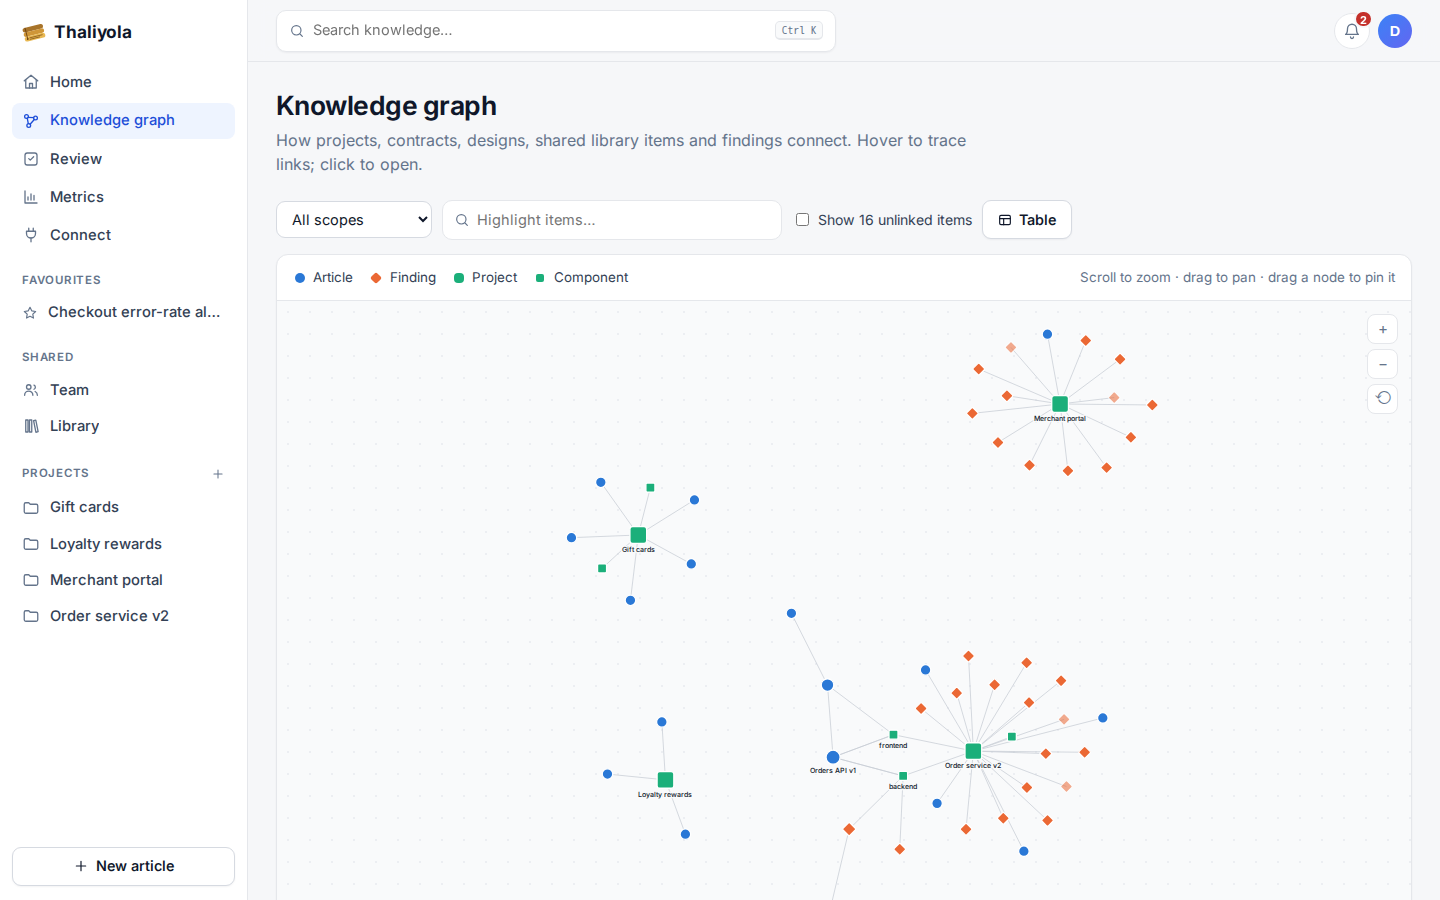
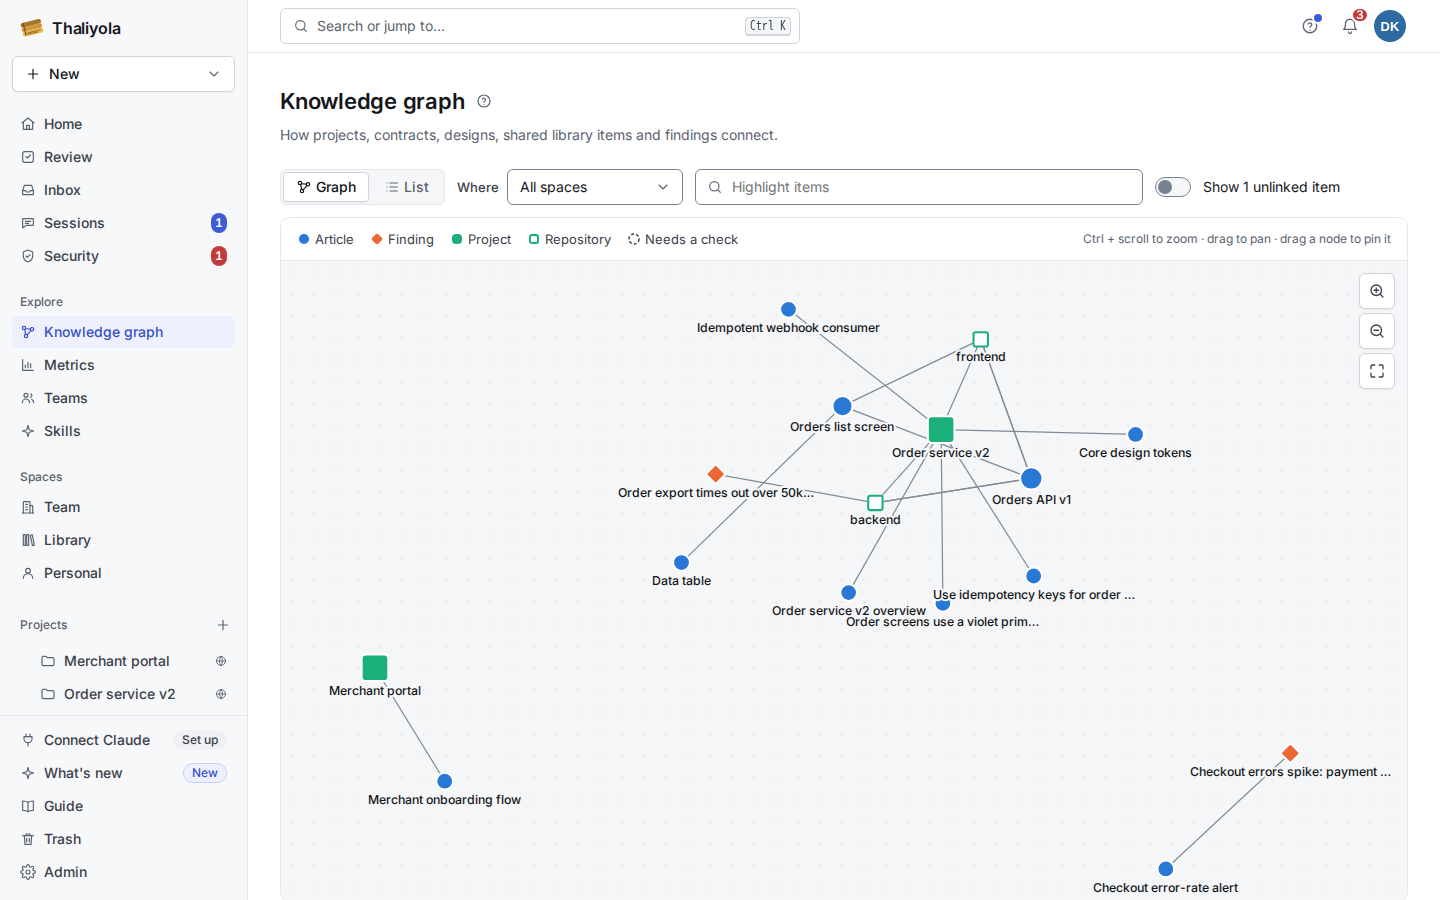
README screenshots and docs refresh; UTF-8 database in the installer
- New screenshots: home, graph, project, design system, sessions,
  security, Guide and a phone view, from the generic demo data
- README: gallery, Guide/Design/Sessions in the web UI list, roadmap,
  UTF-8 requirement; docs/README.md index and docs/install.md
  (install, upgrade, migrations, converting a SQL_ASCII database)
- install.sh creates the database as UTF-8 and stops if an existing
  one isn't; the server warns at start on a non-UTF-8 database

diff --git a/apps/server/src/db/migrate.ts b/apps/server/src/db/migrate.ts
@@ -13,6 +13,9 @@ const MIGRATION_LOCK = 7_402_210;
  * once: an advisory lock lets one migrate while the others wait, and they then find nothing left to apply.
  */
 export async function migrate(db: Db, log: (msg: string) => void = () => {}): Promise<void> {
+  // Thaliyola needs a UTF-8 database (normalize() and redaction fail otherwise); say so plainly instead of failing later.
+  const enc = (await db.query<{ server_encoding: string }>("SHOW server_encoding")).rows[0]?.server_encoding;
+  if (enc && enc !== "UTF8") console.warn(`[migrate] WARNING: the database uses ${enc}; Thaliyola needs UTF8. Convert it: see docs/install.md#the-database-must-be-utf-8`);
   const lock = await db.connect();
   try {
     await lock.query("SELECT pg_advisory_lock($1)", [MIGRATION_LOCK]);

diff --git a/README.md b/README.md
@@ -6,9 +6,15 @@ A shared team knowledge base exposed as a remote [MCP](https://modelcontextproto
 
 The server holds no LLM. Clients (Claude Code, claude.ai, scheduled agents) do the reasoning; Thaliyola stores, searches, validates and versions. Agent-written content goes through human review before it is published.
 
-| Dashboard | Knowledge graph | Project view for a frontend session |
+| Home | Knowledge graph | Project |
 |---|---|---|
-| ![Dashboard](docs/images/dashboard.png) | ![Knowledge graph](docs/images/graph.png) | ![Project view](docs/images/project-frontend.png) |
+| ![Home: search, setup checklist and spaces](docs/images/home.png) | ![Knowledge graph](docs/images/graph.png) | ![A project's articles by folder](docs/images/project-frontend.png) |
+| **Design system** (inherits from the Library) | **Sessions** asking each other | **Security** |
+| ![Design system with inherited and overridden colours and contrast checks](docs/images/design.png) | ![Sessions: who can be asked, listening or busy](docs/images/sessions.png) | ![Security: vulnerabilities needing attention](docs/images/security.png) |
+| **Guide**: every feature and command | **On a phone** | |
+| ![Guide: what's switched on and every command](docs/images/guide.png) | <img src="docs/images/design-phone.png" alt="Design system on a phone" width="220"> | |
+
+New here? Open **Guide** in the app (`#/guide`) for every feature, whether it's switched on, how to use it and every command, or read [`docs/`](docs/README.md).
 
 ## Concepts
 
@@ -181,6 +187,9 @@ The server also serves a web UI at `/` for people:
 - **Links:** copy a link to any article section from the icon beside its heading, or share an item with the Share button (the native share sheet on phones).
 - **Files and links:** attach screenshots and files, add Figma/PR/Sentry links, and share project items to the library.
 - **Connect:** after signing in, people see their access and roles (role names, not keys). They can create a token in place and copy ready-made setup for Claude Code (global or per repository, with the project and component chosen from lists), claude.ai and other MCP clients. The page also lists the workflow prompts and all tools. A home-page banner points new users there until they connect.
+- **Guide (`#/guide`):** every feature with whether it's switched on in this installation, how to turn it on, how to use it and every command for it (Claude Code slash commands, MCP prompts and tools, the server CLI, pages), searchable, with every prompt and tool listed live from the server. In the sidebar footer, the Help menu and Go to. `GET /api/guide` returns the on/off state (booleans only, never secrets) and the catalog.
+- **Design system (`#/scope/:slug/design`):** swatches with light and dark values and contrast checks, type, spacing, corners, shadows, breakpoints, components, rules and design decisions, marking what is inherited from the base system; edit as JSON with a base picker and version history; export buttons. See [Design systems](#design-systems).
+- **Sessions (`#/sessions`):** who can be asked (listening, busy or offline), questions to and from you with answer, decline and cancel, and asking a session from the browser. See [Sessions asking each other](#sessions-asking-each-other).
 - **Skills (`#/skills`):** **My skills** lists the Claude skills your roles, teams and projects give you, with badges for scripts, pre-approved tools, needed connectors and a newer version than the one you downloaded, **Add to my Claude** (a zip with upload steps) and **Report a problem**, plus how your skills reach Claude. Skills managers, reviewers and Auditors also get **All skills** (filters by collection, status and waiting for review, or one project's own skills from its settings; collections with **Give all to…**), **Sources** and **Usage**. A skill's page has Overview (front matter, SKILL.md as source or rendered, flags, connectors, why you have it), Files (shared guidance, scripts and reviewer-only files marked; invisible characters shown), Versions (raw-text diffs with flags, approve with the required checks, reject with a reason, roll back, release a hold, detach or reattach), Who gets it (everyone, an organisation role, a team, a project and its sub-projects, or a project role, with RolePicker and project picker), Usage and Problem reports. **Import skills** (`#/skills/import`) previews an upload or a repository source before importing, and each import has a report (`#/skills/imports/:id`). Review › Skills, Admin › System › Skills for Claude, Account › Skills for Claude and the Connect page's "Your skills in Claude" card (Claude Desktop through the connector, Claude Code through the sync) complete it. See [Skills for Claude](#skills-for-claude).
 - **Read and edit:** articles and findings. Edits by people who may review in the scope (Reviewers, Moderators, Project admins) or who hold Publish directly publish immediately; everyone else's edits become proposals.
 - **Writing guide:** the article and finding editors show, beside the editor, what each section of that type should contain (from the server's templates, `GET /api/writing-guide/:kind/:type`), with a tick on the sections already written, and a short checklist before saving. The Writing guide button hides or shows it; the choice is remembered in the browser. On narrow screens it sits above the form and starts hidden.
@@ -626,7 +635,7 @@ Re-importing creates new versions only for skills that changed, and they wait fo
 
 ## Running locally
 
-Requirements: Node 22, pnpm 9, and either Docker or Postgres 16 with [pgvector](https://github.com/pgvector/pgvector).
+Requirements: Node 22, pnpm 9, and either Docker or Postgres 16 with [pgvector](https://github.com/pgvector/pgvector) and a **UTF-8** database. Full guide: [`docs/install.md`](docs/install.md).
 
 **With Docker**
 
@@ -641,7 +650,7 @@ docker compose exec server node dist/scripts/seed.js   # optional demo data
 
 On Debian or Ubuntu, `deploy/native/install.sh` sets up everything:
 - installs Node 22 and Postgres 16 with pgvector;
-- creates a `thaliyola` service user and database;
+- creates a `thaliyola` service user and a UTF-8 database (Thaliyola needs UTF-8; see [`docs/install.md`](docs/install.md#the-database-must-be-utf-8) to check or convert an existing one);
 - builds the server and UI, deploys them to `/opt/thaliyola`, and runs them as the `thaliyola` systemd service on `127.0.0.1:8080`.
 
 ```sh
@@ -820,5 +829,7 @@ apps/server/
 - ~~Workflow prompts, Claude Code plugin, backups, promotion and duplicate suggestions~~ (done)
 - ~~Members-only projects~~ (done)
 - ~~S3-compatible file storage~~ (done)
+- ~~Security: dependency scanning, worldwide critical advisories, published alerts~~ (done)
+- ~~Design systems shared between projects; sessions asking each other; the Guide page~~ (done)
 - Next: Trello cards for recurring root causes (as a scheduled agent recipe)
 - **M5** Integrations with existing agent skills, Slack and Sentry

diff --git a/docs/install.md b/docs/install.md
@@ -1,0 +1,100 @@
+# Installing and upgrading Thaliyola
+
+Three ways to run it, then what every install needs: a UTF-8 Postgres 16 database with pgvector. The schema is created and upgraded by the server itself.
+
+## Requirements
+
+| | |
+|---|---|
+| Node | 22 |
+| pnpm | 9 (building from source) |
+| Postgres | 16 with [pgvector](https://github.com/pgvector/pgvector), **UTF-8 encoding** |
+| Memory | about 1 GB for the server with search by meaning (`EMBEDDINGS=local` loads a 35 MB model) |
+| Outbound network (optional) | `api.osv.dev`, `www.cisa.gov`, `services.nvd.nist.gov`, `api.github.com` for security; `huggingface.co` once for the search model |
+
+## Docker
+
+```sh
+cp .env.example .env          # set POSTGRES_PASSWORD
+docker compose up -d --build
+docker compose exec server node dist/scripts/admin.js create-user --email you@example.com --admin
+```
+
+The Postgres image creates a UTF-8 database, so nothing more is needed.
+
+## Native (Debian or Ubuntu, systemd)
+
+```sh
+git clone https://github.com/ramith27/thaliyola && cd thaliyola
+sudo ADMIN_EMAIL=you@example.com deploy/native/install.sh
+```
+
+The script installs Node 22 and Postgres 16 with pgvector, creates the `thaliyola` service user and a UTF-8 database, builds the server and web app into `/opt/thaliyola`, writes `/etc/thaliyola/thaliyola.env`, and starts the `thaliyola` service on `127.0.0.1:8080`, with daily backups. Put nginx in front with [`deploy/native/nginx-thaliyola.conf`](../deploy/native/nginx-thaliyola.conf) and set `PUBLIC_URL`.
+
+| Variable for the script | Default | Meaning |
+|---|---|---|
+| `ADMIN_EMAIL` | none | Creates the first Administrator and prints its temporary password |
+| `DB_NAME`, `DB_USER` | `thaliyola` | Database and role (use these to keep an existing database's names) |
+
+**Upgrading:** `git pull`, then run the same command again (with the same `DB_NAME`/`DB_USER`). It keeps the configuration and the database, applies new migrations on start, and restarts the service. Check with `curl -s localhost:8080/healthz`: it reports the version and commit.
+
+## Kubernetes
+
+See [`deploy/k8s/README.md`](../deploy/k8s/README.md). Use a managed Postgres 16 with pgvector, created with UTF-8 encoding (the default on every managed service).
+
+## The database must be UTF-8
+
+Thaliyola normalises and redacts text with functions that only work in a UTF-8 database. A database created on a server whose default template is `SQL_ASCII` (some older images and hand-made clusters) works at first and then fails with *"Unicode normalization can only be performed if server encoding is UTF8"*. From 1.1.1 the server logs a warning at start when the database isn't UTF-8, and `install.sh` refuses to continue.
+
+Check:
+
+```sh
+sudo -u postgres psql -tAc "SELECT datname, pg_encoding_to_char(encoding) FROM pg_database"
+```
+
+Creating one by hand:
+
+```sql
+CREATE ROLE thaliyola LOGIN PASSWORD '…';
+CREATE DATABASE thaliyola OWNER thaliyola ENCODING 'UTF8' LC_COLLATE 'C' LC_CTYPE 'C' TEMPLATE template0;
+\c thaliyola
+CREATE EXTENSION vector;   -- needs a superuser; the migrations expect it present
+```
+
+### Converting an existing database
+
+A dump and restore into a new UTF-8 database. Text written so far is plain ASCII or already UTF-8 bytes, so it carries over unchanged. Keep the old database until you're sure.
+
+```sh
+sudo systemctl stop thaliyola
+sudo -u postgres pg_dump -Fc thaliyola_prod > /root/thaliyola_prod-before-utf8.dump
+
+sudo -u postgres psql -c "ALTER DATABASE thaliyola_prod RENAME TO thaliyola_prod_sqlascii"
+sudo -u postgres psql -c "CREATE DATABASE thaliyola_prod OWNER thaliyola_svc ENCODING 'UTF8' LC_COLLATE 'C' LC_CTYPE 'C' TEMPLATE template0"
+sudo -u postgres psql -d thaliyola_prod -c "CREATE EXTENSION vector"
+# pg_restore reads from stdin, so the postgres user needn't be able to read /root
+sudo -u postgres pg_restore --no-owner --role=thaliyola_svc -d thaliyola_prod < /root/thaliyola_prod-before-utf8.dump
+
+sudo -u postgres psql -d thaliyola_prod -tAc "SELECT count(*) FROM articles"   # compare with the old database
+sudo systemctl start thaliyola
+```
+
+When everything works for a few days: `sudo -u postgres psql -c "DROP DATABASE thaliyola_prod_sqlascii"`.
+
+## The schema
+
+The server applies the SQL files in [`apps/server/migrations`](../apps/server/migrations) in order on every start, under a Postgres advisory lock (so several replicas never run them twice), and records each in `schema_migrations`. There's nothing to run by hand, and a migration never runs twice. To apply them without starting the server: `node dist/db/migrate.js` with `DATABASE_URL` set (or `pnpm --filter @thaliyola/server migrate` from source).
+
+Recent migrations:
+
+| Migration | Adds |
+|---|---|
+| `071_agent_sessions.sql` | `agent_sessions` (registered Claude sessions: handle, project, repository, listening, last seen) and `session_questions` (questions between sessions, their claim, answer and delivery); the `question` notification kind |
+| `072_design_systems.sql` | `design_systems` (one per scope: tokens as JSON, rules, `based_on`, version) and `design_system_versions` (every saved version, for restore) |
+
+## After installing
+
+1. Sign in as the Administrator and change the temporary password.
+2. Open **Guide** (`#/guide`): it shows which features are switched on here and how to turn the others on.
+3. Open **Connect** to connect Claude, or install the Claude Code plugin for the skill, the session hooks and the `/thaliyola` commands ([`integrations/README.md`](../integrations/README.md)).
+4. Create projects, add their repositories, and invite the team.

diff --git a/CHANGELOG.md b/CHANGELOG.md
@@ -2,9 +2,13 @@
 
 ## Unreleased
 
+### Fixed
+
+- **UTF-8 databases.** `deploy/native/install.sh` creates the database as UTF-8 (it used the server's default, which can be `SQL_ASCII`, where 1.1.1's text normalisation fails) and stops with instructions when an existing one isn't. The server warns at start when its database isn't UTF-8. `docs/install.md` explains how to check and convert one.
+
 ### Added
 
-- **Guide page** (`#/guide`, in the sidebar footer, the Help menu and Go to): every feature with whether it's switched on here (`GET /api/guide`, booleans only), how to turn it on, how to use it, and every command for it (Claude Code slash commands, MCP prompts and tools, the server CLI, pages), searchable, plus every prompt and tool listed live from the server. Full guides for sharing design systems between projects (`docs/design-systems.md`) and sessions asking each other with `/thaliyola:ask`, `/thaliyola:listen` and `/thaliyola:busy` (`docs/sessions.md`); the agents' `get_guide("design")` and `get_guide("sessions")` explain inheritance and the plugin commands the same way.
+- **Guide page** (`#/guide`, in the sidebar footer, the Help menu and Go to): every feature with whether it's switched on here (`GET /api/guide`, booleans only), how to turn it on, how to use it, and every command for it (Claude Code slash commands, MCP prompts and tools, the server CLI, pages), searchable, plus every prompt and tool listed live from the server. New README screenshots (Home, graph, project, design system, sessions, security, Guide, phone) and `docs/README.md`, `docs/install.md`. Full guides for sharing design systems between projects (`docs/design-systems.md`) and sessions asking each other with `/thaliyola:ask`, `/thaliyola:listen` and `/thaliyola:busy` (`docs/sessions.md`); the agents' `get_guide("design")` and `get_guide("sessions")` explain inheritance and the plugin commands the same way.
 - **Design systems per project, team and library.** Colours with dark values and roles, fonts and type scale, spacing, radii, shadows, breakpoints, components, rules, and design decisions. A project can be based on another system (usually the Library's) and override by name. Versions with restore, WCAG contrast checks, and exports as CSS variables, Tailwind, W3C design tokens and JSON. A **Design system** entry in the menu of every project and space page. Anyone whose roles in a project include Propose (Contributors and above, from a team or a project above too) edits its system; Team and Library systems need someone who reviews there. MCP tools `get_design_system`, `update_design_system`, `record_design_decision`; a `capture-design` prompt that records the values from code; a design summary in `get_project_context`; `get_guide("design")`.
 - **Sessions asking each other.** Claude sessions (yours or teammates', on any machine) register under handles and ask each other questions by handle, email or project. The asker waits up to 45 s, then gets a ticket, and the answer is handed over later. Answers come from listening sessions (the `listen` prompt, or the plugin's hook-based listening at no token cost), from busy sessions when they finish a task (plugin Stop hook), or from people on the new **Sessions** page in the sidebar, which counts questions waiting for you. Answers can be saved as findings. A new **question** notification kind, never posted to Slack or Trello routes. MCP tools `register_session`, `list_sessions`, `ask_session`, `get_answer`, `wait_for_questions`, `answer_question`, `decline_question`; `get_guide("sessions")`; Claude Code plugin hooks and `/thaliyola:listen`, `/thaliyola:busy`, `/thaliyola:ask`; `/api/agent-sessions`, `/api/questions`.
 

diff --git a/docs/README.md b/docs/README.md
@@ -1,0 +1,19 @@
+# Thaliyola documentation
+
+The [main README](../README.md) covers everything in one place. These guides go deeper on one subject each. In the app, **Guide** (`#/guide`) shows every feature, whether it's switched on in your installation, how to use it and every command.
+
+| Guide | Read it to |
+|---|---|
+| [Installing and upgrading](install.md) | Install with Docker, natively or on Kubernetes; the UTF-8 database requirement and converting an existing database; how migrations run |
+| [Design systems](design-systems.md) | Share colours, fonts and design rules between projects with *based on*; capture a design from code; export it as CSS, Tailwind or design tokens |
+| [Sessions asking each other](sessions.md) | Ask another Claude session with `/thaliyola:ask`; make one answer with `/thaliyola:listen`; `/thaliyola:busy`; how a question travels |
+| [Acceptance testing](acceptance.md) | Check a deployed server: the tool sweep and real Claude sessions as team members |
+| [Ops notes for 1.1](ops-1.1.md) | Build arguments, CI variables and the ops checklist for 1.1 |
+| [Agent integrations](../integrations/README.md) | The Claude Code plugin (skill, hooks, commands), connect.sh, and other agents |
+
+## Screenshots
+
+| | |
+|---|---|
+| ![Guide](images/guide.png) | ![Design system](images/design.png) |
+| ![Sessions](images/sessions.png) | ![Security](images/security.png) |

diff --git a/docs/design-systems.md b/docs/design-systems.md
@@ -2,6 +2,8 @@
 
 Every project, and the Team and Library spaces, can hold a **design system**: the colours, fonts, spacing and rules its UI is built from, stored as structured tokens. Projects share a design by being **based on** another system, usually the Library's. They inherit everything from it and override only what differs.
 
+![A project's design system: overridden colours (primary, accent) and colours inherited from the Library, with contrast checks](images/design.png)
+
 ## How a project gets a design
 
 There are three ways, and they combine:
@@ -35,6 +37,8 @@ The **effective** design of a project is built from the farthest base inwards. E
 | Icons, voice, accessibility notes | The nearest system that sets them wins. |
 | Rules (principles) | All layers are shown, the project's own rules first, then the base's. |
 | Design decisions | Decisions tagged `design`, and component, UX pattern, screen and token pages from every layer, are listed together. |
+
+On the Design page, each colour says where it comes from: *from Library* when inherited, *Order service v2 override* when the project replaced it.
 
 What this means in practice:
 - **Change the Library, and every project based on it changes**: the next `get_design_system`, export or page view uses the new values. The Library's Design page lists the projects that use it.

diff --git a/docs/sessions.md b/docs/sessions.md
@@ -4,6 +4,8 @@ A Claude session can ask another session a question and get the answer back. The
 
 Thaliyola only stores questions and answers and wakes up waiting sessions. Every answer comes from a Claude session or a person; the server never answers anything itself.
 
+![The Sessions page: who can be asked (listening or busy), and asking from the browser](images/sessions.png)
+
 ## Set up (Claude Code)
 
 1. Install the Thaliyola plugin with its environment variables (see [`integrations/README.md`](../integrations/README.md)):
